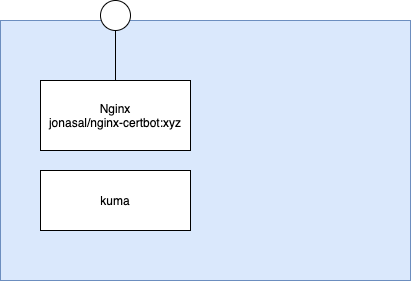
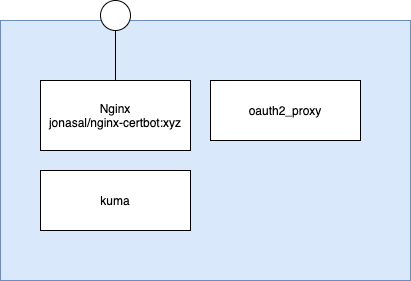
added stuff

Changed region(s): [[0.4964, 0.2847, 0.8759, 0.5125]]

diff --git a/readme.md b/readme.md
@@ -28,16 +28,35 @@ All configuration is done via the environment variable files. To check what vare
 
 Some variables and options that need explanation are described below.
 
+
+## TO DO & DONE
+
+Things on my to do list:
+
+### TODO: Private access
+
+Give the site private access, using [OAuth2 Proxy](https://oauth2-proxy.github.io/oauth2-proxy/) and Google login. The structure of the site should be:
+
+* `monitoring.grtnr.de/` shows a top level status site that also contains links to more detailed monitoring info
+* `monitoring.grtnr.de/details/*` contains all the detailed monitoring data
+
+#### Reading
+
+* A good and thorough explanation of how nginx and Letsencrypt interact within a docker setup: [How to set up an easy and secure reverse proxy with Docker, Nginx & Letsencrypt](https://medium.com/free-code-camp/docker-nginx-letsencrypt-easy-secure-reverse-proxy-40165ba3aee2)
+* May be I want to use [Statping](https://github.com/statping/statping)
+* A complete guide: [Add Google Authentication to any Website using Nginx and Oauth Proxy](https://dev.to/ahmedmusaad/add-google-authentication-to-any-website-using-nginx-and-oauth-proxy-259l)
+* [Validating OAuth 2.0 Access Tokens with NGINX and NGINX Plus](https://www.nginx.com/blog/validating-oauth-2-0-access-tokens-nginx/#production-configuration)
+* Another alternative to OAuth2 Proxy that I don't plan to use (mainly because the guides I found use OAuth Proxy): [Vouch](https://github.com/vouch/vouch-proxy)
+* Two explanations on how to use Vouch: [Use nginx to Add Authentication to Any Application](https://developer.okta.com/blog/2018/08/28/nginx-auth-request) and [Enforce Google Authentication for Any Application with nginx and Vouch Proxy](https://medium.com/lasso/use-nginx-and-lasso-to-add-google-authentication-to-any-application-d3a8a7f073dd)
+* The docker image I plan to use is from [Bitnami](https://hub.docker.com/r/bitnami/oauth2-proxy/)
+
 ### TODO: Backup & Restore
 
 The setup containes a backup tool wrapped in a docker container: We use the [backup container from Tim Bennet](https://github.com/bennetimo/ghost-backup). 
 
 In order to perform a backup of an existing environment (docker-based, that is)
 
-
-## TO DO & DONE
-
-Things on my to do list:
+### Further TODOs
 
 - Create proper routes, naming, accesss logic
 - Add monitoring using ELK or Grafana for my servers (ghost PROD & TEST, MONITOR) with metrics:
@@ -52,7 +71,7 @@ Things on my to do list:
 - Send emails when threshold are taken
 ### DONE 
 
-* 2021-11-22: First version works witzh uptime-kuma, but services are still available w/o security
+* 2021-11-22: First version works with uptime-kuma, but services are still available w/o security
 * 2021-11-17: Started the project based on my ghost on Docker setup
 ## Reading / Sources / Tech background
 
